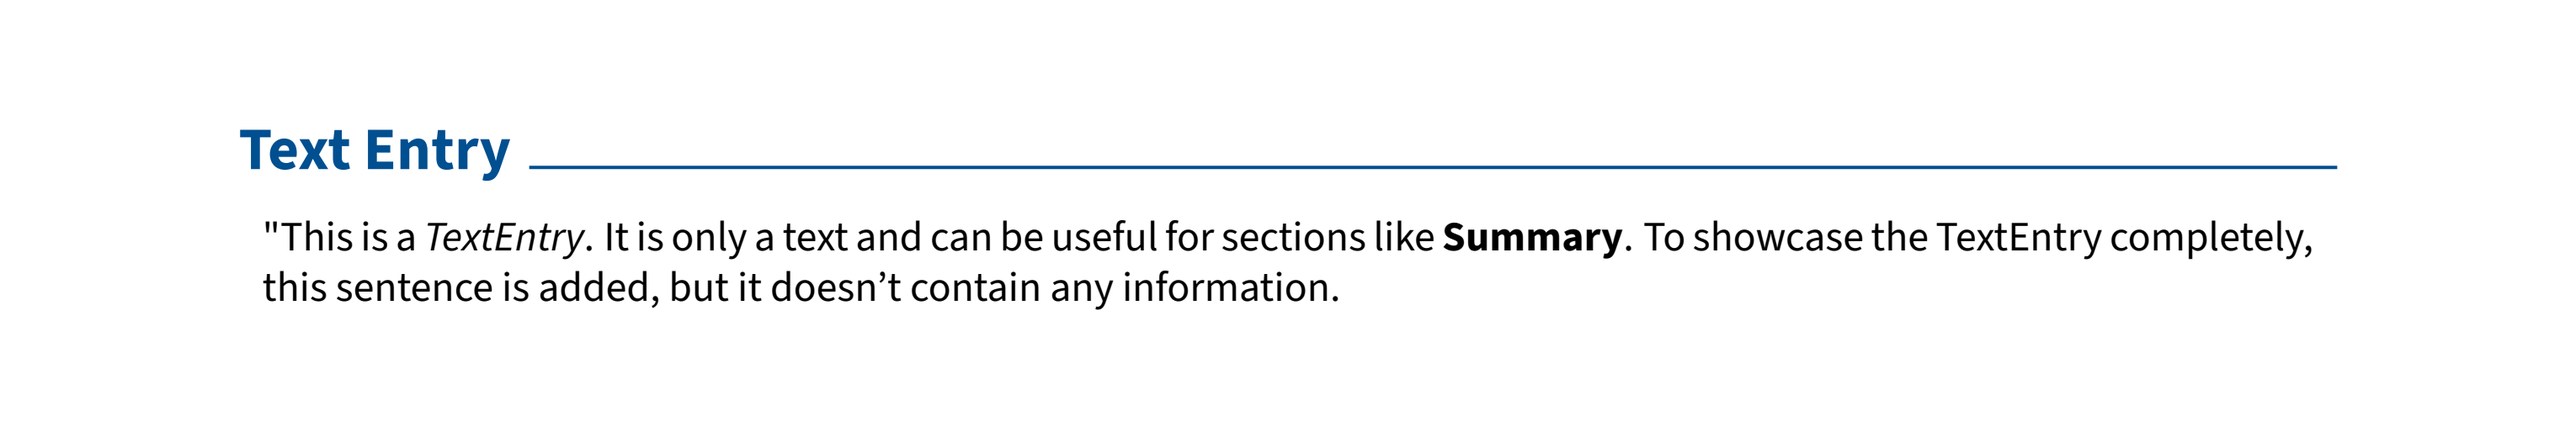
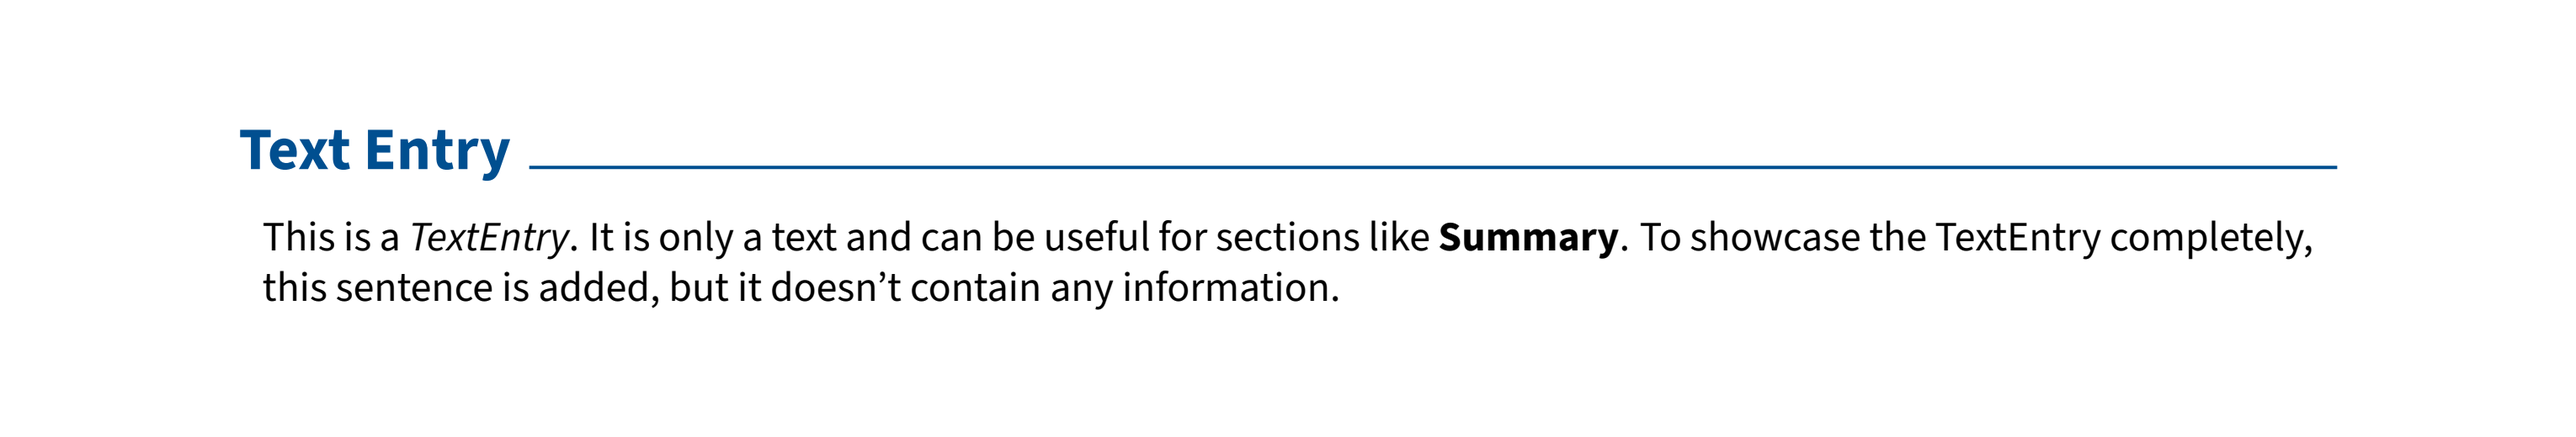
docs: update entry figures

Changed region(s): [[0.0931, 0.4923, 0.8072, 0.5846]]

diff --git a/docs/generate_entry_figures_and_examples.py b/docs/generate_entry_figures_and_examples.py
@@ -166,7 +166,7 @@ def generate_entry_figures():
         "normal_entry": dm.NormalEntry(**normal_entry),
         "publication_entry": dm.PublicationEntry(**publication_entry),
         "one_line_entry": dm.OneLineEntry(**one_line_entry),
-        "text_entry": f'"{text_entry}',
+        "text_entry": f"{text_entry}",
     }
     themes = dm.available_themes
 
